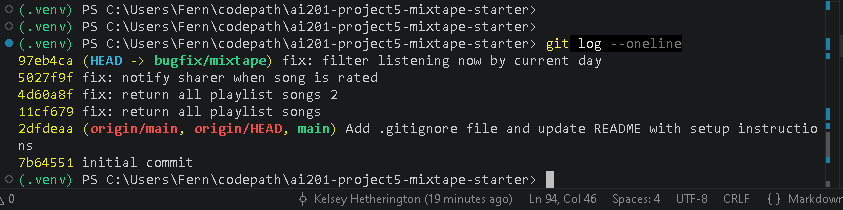
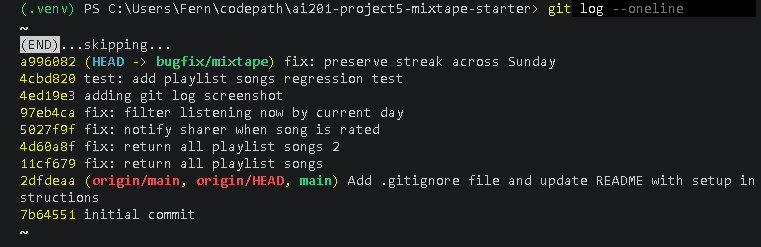
fixing typos in submission.md

diff --git a/submission.md b/submission.md
@@ -30,34 +30,39 @@ The application follows a clear separation of responsibilities. The route files 
 ---
 
 # Root Cause Analysis
-## Issue #5 – The last song in a playlist never shows up
+## Issue #1 – My listening streak keeps resetting
 
 ### How I reproduced it
 
-I started the Flask app and opened the playlist detail endpoint for the Friday Energy playlist:
-
-GET /playlists/fa64daf5-02fc-486a-8b60-480630772183
-
-The playlist detail showed `song_count: 7`.
-
-Then I opened:
-
-GET /playlists/fa64daf5-02fc-486a-8b60-480630772183/songs
-
-That endpoint returned `count: 6`, which confirmed the bug because the playlist said it had 7 songs but only 6 were returned.
+I reproduced this through the existing streak test. The test simulated a user listening on Saturday and then again on Sunday. The expected streak was 2 because those are consecutive calendar days, but the actual streak stayed at 1.
 
 ### How I found the root cause
 
-I started from the endpoint GET /playlists/<playlist_id>/songs, then looked at routes/playlists.py to see which service function it called. That led me to get_playlist_songs() in services/playlist_service.py. The query itself returned the playlist songs in position order, but the return statement used songs[:-1], which removes the final song from the list.
+I opened `services/streak_service.py` and followed the streak update logic in `update_listening_streak()`. The function calculated `days_since_last` correctly, but the conditional for consecutive days also checked `today.weekday() != 6`. That made me confident this was the root cause because Python uses `6` for Sunday, matching the reported Sunday-only reset.
 
 ### The root cause
 
-The get_playlist_songs() function was slicing the song list with songs[:-1]. In Python, that returns every item except the last one. Since the playlist songs were already ordered by position, the last item was always the most recently added song. This caused the newest playlist song to be hidden every time.
+The streak logic incorrectly excluded Sundays from the consecutive-day increment path. Even when `days_since_last == 1`, the condition `today.weekday() != 6` prevented the streak from incrementing on Sunday. The code then fell into the `else` block and reset the streak to 1.
 
+### My fix and side-effect check
+
+I removed the Sunday exclusion and allowed any `days_since_last == 1` case to increment the streak. After the fix, I ran `pytest tests/test_streaks.py` to confirm Saturday-to-Sunday increments correctly and that the other streak behaviors still passed.
+
+---
+
+## Issue #2 – Friends Listening Now
+
+### How I reproduced it
+I read the issue description and traced the endpoint GET /feed/<user_id>/listening-now. The issue described that users who listened late the previous evening still appeared in the "Listening Now" feed the next morning. I tested the endpoint using one of the seeded users and confirmed that the feed logic was based on a rolling time window rather than the current calendar day.
+
+### How I found the root cause
+I started with the route in routes/feed.py, which calls get_friends_listening_now() in services/feed_service.py. Inside that function, I found the cutoff time was calculated using datetime.now(timezone.utc) minus a 24-hour timedelta. That explained why listening events from yesterday evening were still included the following morning.
+
+### The root cause
+The function filtered listening events using a rolling 24-hour window (datetime.now() - timedelta(hours=24)). That allowed listening events from late the previous evening to remain visible the next morning. The feature requirements expected "Listening Now" to include only events from the current calendar day.
 
 ### My fix and check
-
-I changed the return statement from songs[:-1] to songs so the function returns every song in the playlist. After the fix, I refreshed the Friday Energy playlist songs endpoint and confirmed the count changed from 6 to 7, matching the playlist detail endpoint. I also confirmed that the songs were still returned in playlist order because the query continued ordering by `playlist_entries.position`.
+I changed the cutoff from a rolling 24-hour window to the start of the current day by setting the cutoff time to midnight. This ensures that only today's listening events appear in the feed. I verified that the endpoint still returned today's listening events after the change while excluding events from the previous day. I also confirmed that the function continued filtering only the current user's friends, so unrelated users did not appear in the feed.
 
 ---
 
@@ -87,24 +92,41 @@ I added a create_notification() call after the rating commit, only when the rate
 
 ---
 
-## Issue #2 – Friends Listening Now
+## Issue #5 – The last song in a playlist never shows up
 
 ### How I reproduced it
-I read the issue description and traced the endpoint GET /feed/<user_id>/listening-now. The issue described that users who listened late the previous evening still appeared in the "Listening Now" feed the next morning. I tested the endpoint using one of the seeded users and confirmed that the feed logic was based on a rolling time window rather than the current calendar day.
+
+I started the Flask app and opened the playlist detail endpoint for the Friday Energy playlist:
+
+GET /playlists/fa64daf5-02fc-486a-8b60-480630772183
+
+The playlist detail showed `song_count: 7`.
+
+Then I opened:
+
+GET /playlists/fa64daf5-02fc-486a-8b60-480630772183/songs
+
+That endpoint returned `count: 6`, which confirmed the bug because the playlist said it had 7 songs but only 6 were returned.
 
 ### How I found the root cause
-I started with the route in routes/feed.py, which calls get_friends_listening_now() in services/feed_service.py. Inside that function, I found the cutoff time was calculated using datetime.now(timezone.utc) minus a 24-hour timedelta. That explained why listening events from yesterday evening were still included the following morning.
+
+I started from the endpoint GET /playlists/<playlist_id>/songs, then looked at routes/playlists.py to see which service function it called. That led me to get_playlist_songs() in services/playlist_service.py. The query itself returned the playlist songs in position order, but the return statement used songs[:-1], which removes the final song from the list.
 
 ### The root cause
-The function filtered listening events using a rolling 24-hour window (datetime.now() - timedelta(hours=24)). That allowed listening events from late the previous evening to remain visible the next morning. The feature requirements expected "Listening Now" to include only events from the current calendar day.
+
+The get_playlist_songs() function was slicing the song list with songs[:-1]. In Python, that returns every item except the last one. Since the playlist songs were already ordered by position, the last item was always the most recently added song. This caused the newest playlist song to be hidden every time.
 
 ### My fix and check
-I changed the cutoff from a rolling 24-hour window to the start of the current day by setting the cutoff time to midnight. This ensures that only today's listening events appear in the feed. I verified that the endpoint still returned today's listening events after the change while excluding events from the previous day. I also confirmed that the function continued filtering only the current user's friends, so unrelated users did not appear in the feed.
+
+I changed the return statement from songs[:-1] to songs so the function returns every song in the playlist. After the fix, I refreshed the Friday Energy playlist songs endpoint and confirmed the count changed from 6 to 7, matching the playlist detail endpoint. I also confirmed that the songs were still returned in playlist order because the query continued ordering by `playlist_entries.position`.
+
 ---
 
 # Git Log Screenshot
 
 ![Git log showing separate commits](images/git-log.png)
+
+---
 
 # Regression Test
 
